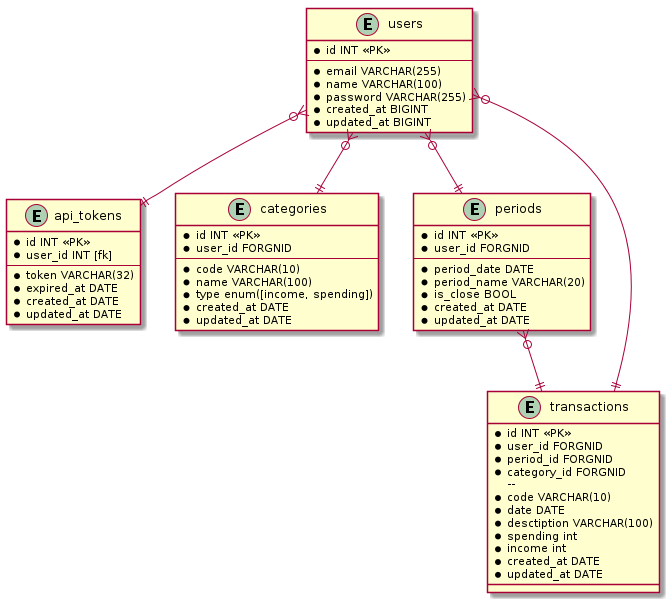
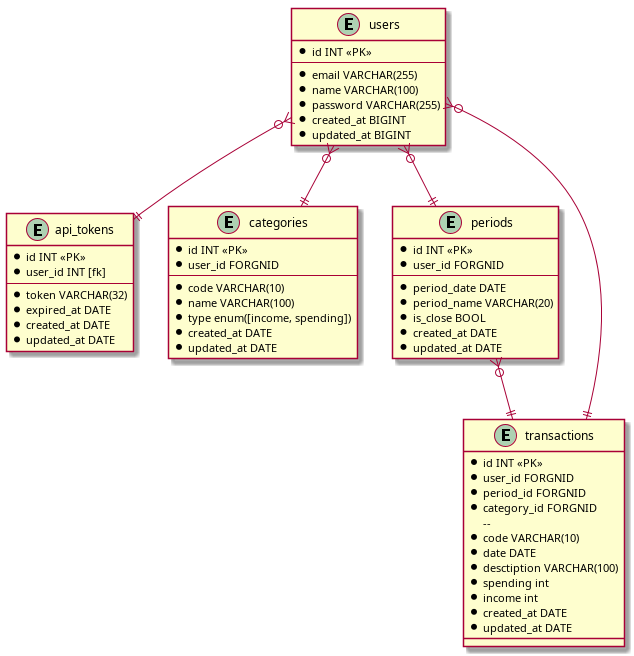
DB: menambahkan tabel baru, file_upload

diff --git a/database/migrations/2025_07_20_163319_create_file_uploads_table.php b/database/migrations/2025_07_20_163319_create_file_uploads_table.php
@@ -1,0 +1,33 @@
+<?php
+
+use Illuminate\Database\Migrations\Migration;
+use Illuminate\Database\Schema\Blueprint;
+use Illuminate\Support\Facades\Schema;
+
+return new class extends Migration
+{
+    /**
+     * Run the migrations.
+     */
+    public function up(): void
+    {
+        Schema::create('file_uploads', function (Blueprint $table) {
+            $table->id();
+            $table->foreignId('user_id');
+            $table->string('original_name', 100);
+            $table->string('file_name', 20)->unique();
+            $table->boolean('is_generate');
+            $table->integer('status');
+            $table->string('message', 100);
+            $table->timestamps();
+        });
+    }
+
+    /**
+     * Reverse the migrations.
+     */
+    public function down(): void
+    {
+        Schema::dropIfExists('file_uploads');
+    }
+};

diff --git a/app/Models/FileUpload.php b/app/Models/FileUpload.php
@@ -1,0 +1,10 @@
+<?php
+
+namespace App\Models;
+
+use Illuminate\Database\Eloquent\Model;
+
+class FileUpload extends Model
+{
+    //
+}
